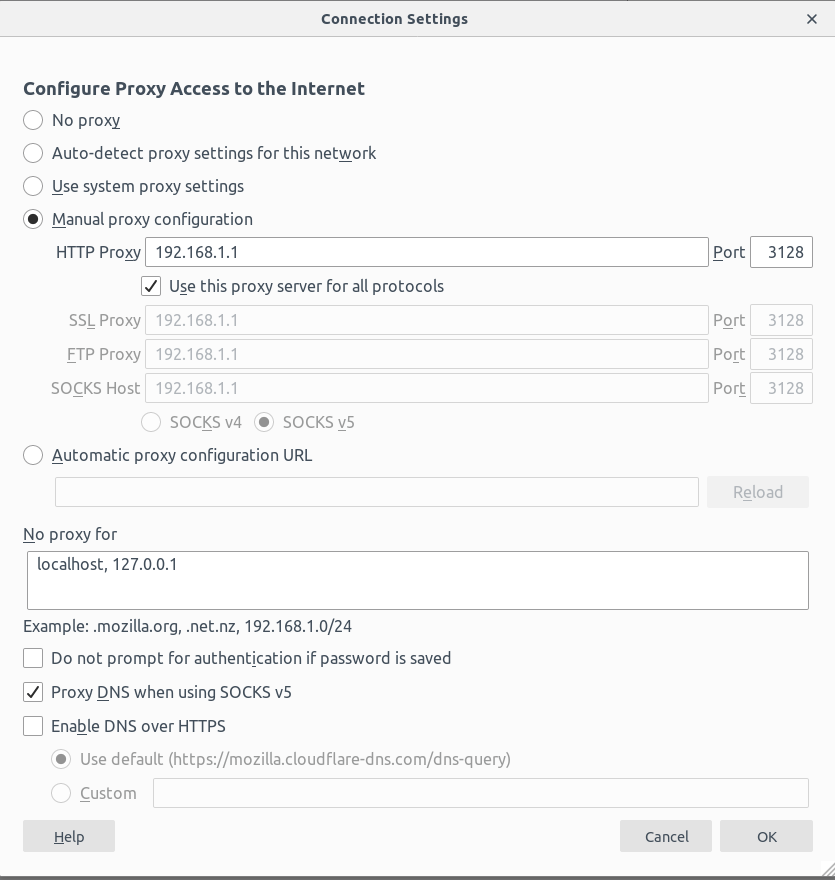
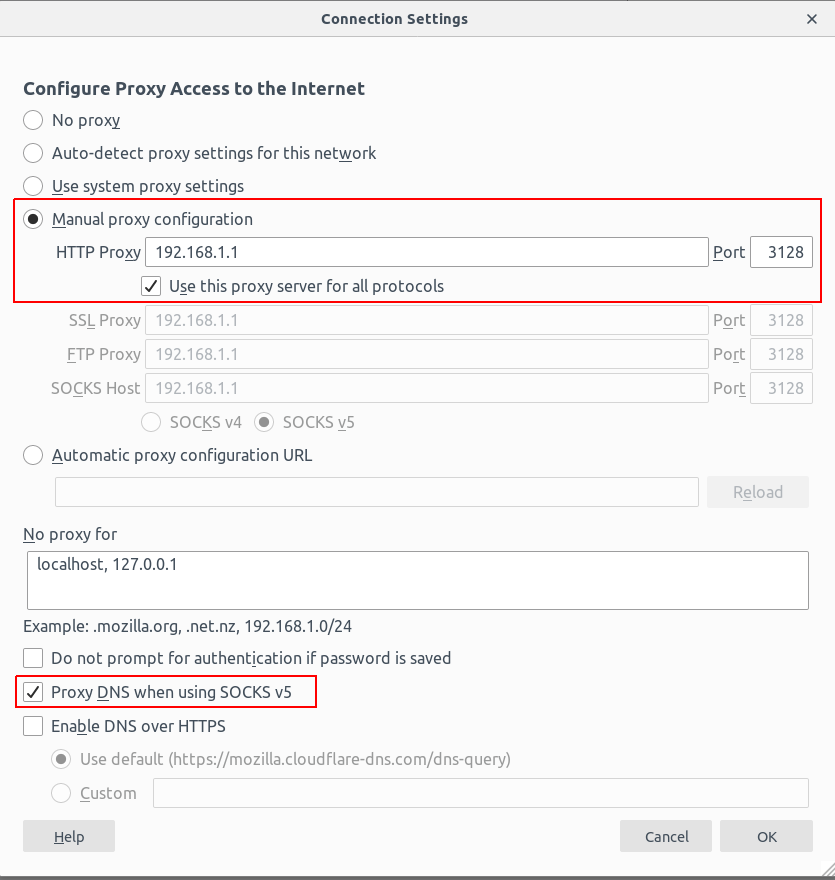
rapport

Changed region(s): [[0.0, 0.767, 0.0311, 0.7977]]

diff --git a/tor-accesspoint/rapport.md b/tor-accesspoint/rapport.md
@@ -91,7 +91,7 @@ Voici la configuration dans VirtualBox de la carte réseau du client.
 
 # Réalisation
 
-La majeur partie du travail a été de configuré l'access point pour que tous les services démarrent au démarrage de la machine
+La majeur partie du travail a été de configuré l'access point et que tous les services démarrent au démarrage de la machine
 
 ## Access Point
 
@@ -109,10 +109,19 @@ Pour le client, la seule configuration à faire se trouver dans le navigateur.
 
 Nous avons changé le proxy du navigateur et également désactivé le Javascript pour évité le tracking non-désiré de certains sites.
 
-Pour cela il faut 
+### Configuration réseau du navigateur.
 
+Pour configurer le navigateur il faut modifier les paramètres de connexion afin qu'elle soit identique à ceci :
 
-bonjour[@Schaefer]
+![Configuration réseau](./rsc/configproxypng.png){ width=60% }
+
+Et pour désactivé le navigateur il faut taper `about:config` dans la barre d'adresse et changé la valeur à false comme sur l'image ci-dessous
+
+![Configuration réseau](./rsc/js.png){ width=80% }
+
+Nous avons vérifié que le javascript ait bien été désactivé en allant sur facebook, on peut voir le paramètre "noscript" s'afficher dans la barre d'adresse du navigateur.
+
+![Configuration réseau](./rsc/js2.png){ width=80% }
 
 # Conclusion
 
